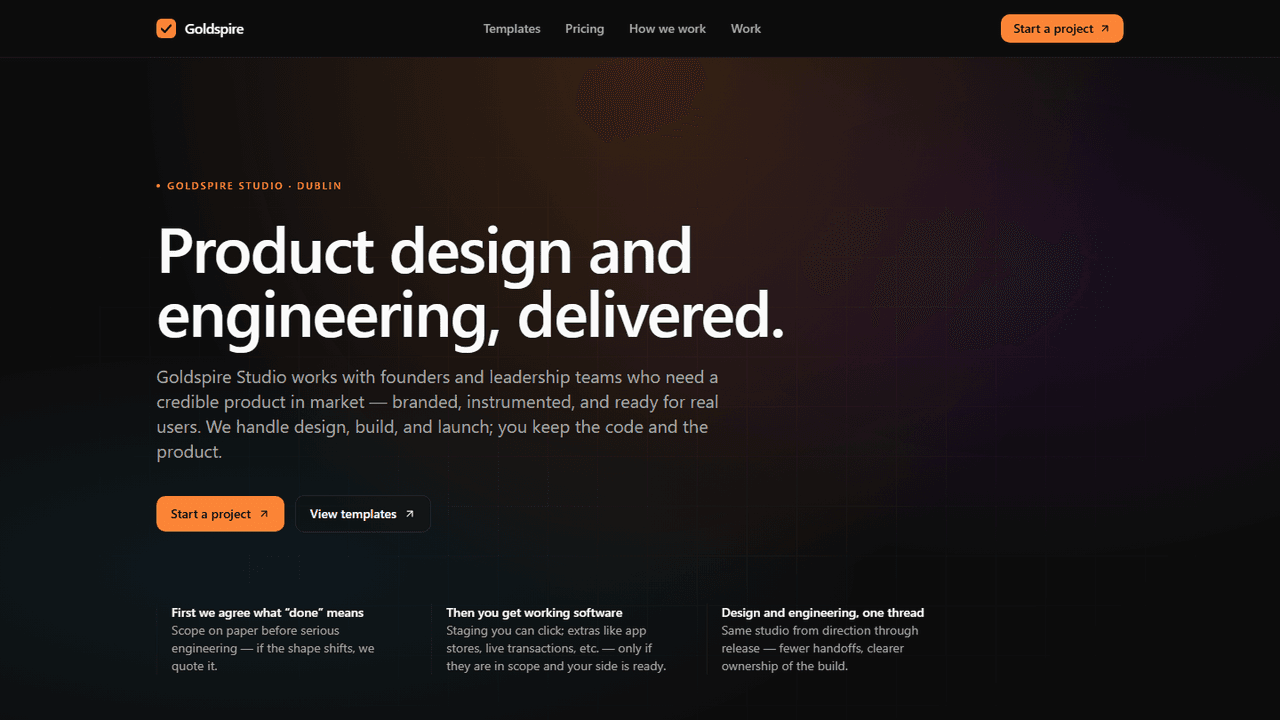
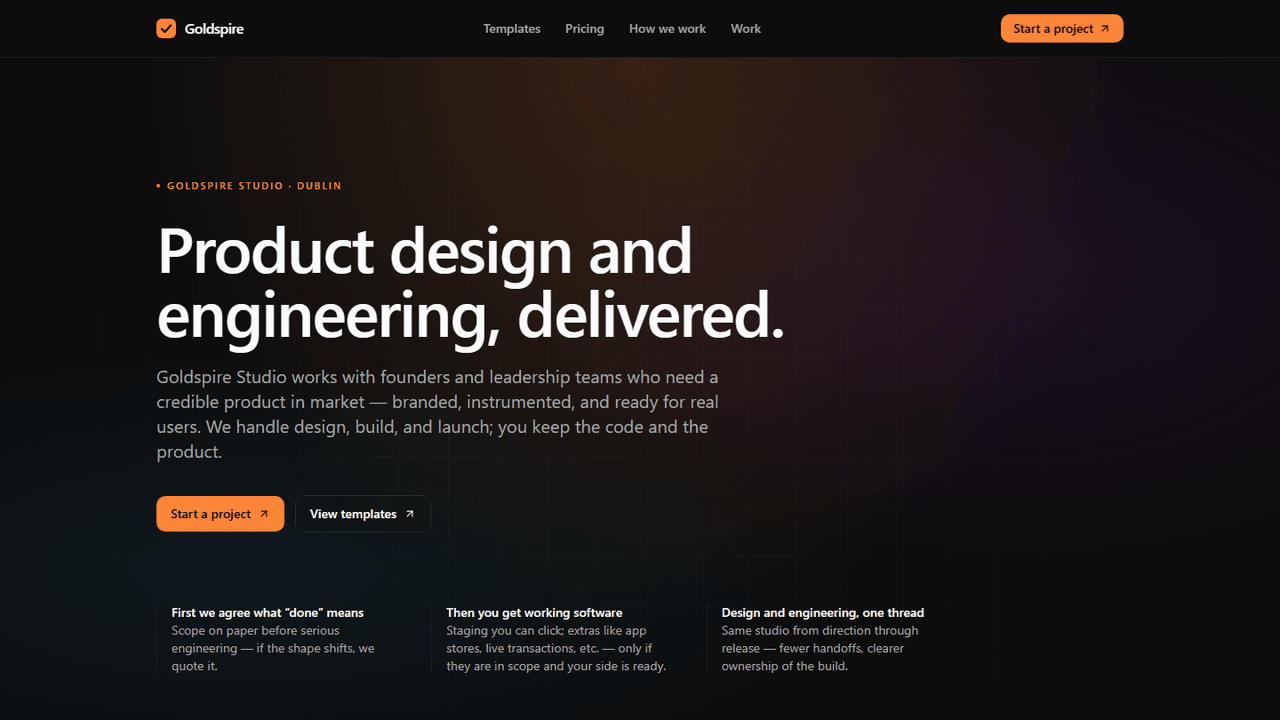
Tighten corporate copy, metrics, portfolio previews, and Studio partner section.
Fix live count to include all three shipping companies, add building venture preview images, refresh philosophy and vision wording, and promote Goldspire Studio on the partner page with links to goldspire.dev.

diff --git a/src/components/home/PartnershipSection.tsx b/src/components/home/PartnershipSection.tsx
@@ -8,41 +8,119 @@ const PARTNER_TYPES = [
   "Strategic alliances",
 ] as const;
 
+const STUDIO_OFFERS = [
+  "Fixed-scope web & mobile products",
+  "Template catalog — dating, booking, and more",
+  "Client-owned repos at handover",
+  "Milestone delivery with a client portal",
+] as const;
+
 export function PartnershipSection() {
   return (
     <section className="section-pad border-t border-white/5">
-      <div className="mx-auto max-w-4xl text-center">
+      <div className="mx-auto max-w-7xl">
         <Reveal>
-          <p className="text-xs tracking-[0.3em] text-gold">PARTNER</p>
-          <h2 className="mt-4 font-display text-2xl font-semibold sm:text-3xl">Build the next company with us</h2>
-          <p className="mt-4 text-muted leading-relaxed">
-            We work with investors, enterprises, and public bodies that think in years, not quarters.
-            If you are exploring co-investment, pilots, or alignment with a company in the portfolio,
-            get in touch.
-          </p>
-        </Reveal>
-
-        <Reveal delay={0.08}>
-          <div className="mt-10 flex flex-wrap justify-center gap-3">
-            {PARTNER_TYPES.map((type) => (
-              <span
-                key={type}
-                className="rounded-full border border-white/10 px-4 py-2 text-sm text-soft"
-              >
-                {type}
-              </span>
-            ))}
+          <div className="glass-panel overflow-hidden rounded-2xl border-gold/20 p-8 sm:p-10 lg:p-12">
+            <div className="grid gap-10 lg:grid-cols-[1fr_1.1fr] lg:items-center">
+              <div className="text-left">
+                <p className="text-xs tracking-[0.3em] text-gold">GOLDSPIRE STUDIO</p>
+                <h2 className="mt-4 font-display text-2xl font-semibold sm:text-3xl">
+                  Ship a credible product — without open-ended agency drift
+                </h2>
+                <p className="mt-4 text-muted leading-relaxed">
+                  Goldspire Studio is our product design and engineering division. Founders and operators
+                  come to us when they need something real in market: a branded app from a proven template,
+                  a scoped blueprint build, or a fixed-price path with clear milestones and code they keep.
+                </p>
+                <ul className="mt-6 space-y-2 text-sm text-soft">
+                  {STUDIO_OFFERS.map((item) => (
+                    <li key={item} className="flex gap-2">
+                      <span className="text-gold">·</span>
+                      <span>{item}</span>
+                    </li>
+                  ))}
+                </ul>
+                <div className="mt-8 flex flex-wrap gap-3">
+                  <a
+                    href="https://goldspire.dev"
+                    target="_blank"
+                    rel="noopener noreferrer"
+                    className="rounded-full bg-gold px-7 py-3.5 text-sm font-medium text-rich-black hover:bg-[#e8c75a] transition-colors"
+                  >
+                    Explore Goldspire Studio
+                  </a>
+                  <a
+                    href="https://goldspire.dev/templates"
+                    target="_blank"
+                    rel="noopener noreferrer"
+                    className="rounded-full border border-white/15 px-7 py-3.5 text-sm text-white hover:border-gold/40 hover:text-gold transition-colors"
+                  >
+                    View templates
+                  </a>
+                </div>
+              </div>
+              <div className="relative overflow-hidden rounded-xl border border-white/8 bg-rich-black/40">
+                <img
+                  src="/images/portfolio/studio-preview.png"
+                  alt="Goldspire Studio marketing site preview"
+                  className="aspect-[16/9] w-full object-cover object-top"
+                  loading="lazy"
+                />
+                <div className="pointer-events-none absolute inset-0 bg-gradient-to-t from-navy/90 via-transparent to-transparent" />
+                <p className="absolute bottom-4 left-4 right-4 text-xs text-muted">
+                  Live at{" "}
+                  <a href="https://goldspire.dev" className="text-gold hover:underline" target="_blank" rel="noopener noreferrer">
+                    goldspire.dev
+                  </a>
+                  {" · "}[email redacted]
+                </p>
+              </div>
+            </div>
           </div>
         </Reveal>
 
-        <Reveal delay={0.12}>
-          <a
-            href="mailto:[email redacted]?subject=Partnership%20inquiry"
-            className="mt-10 inline-flex rounded-full bg-gold px-8 py-4 text-sm font-medium text-rich-black hover:bg-[#e8c75a] transition-colors"
-          >
-            Start a conversation
-          </a>
-        </Reveal>
+        <div className="mx-auto mt-20 max-w-4xl text-center">
+          <Reveal delay={0.06}>
+            <p className="text-xs tracking-[0.3em] text-gold">VENTURE PARTNERSHIP</p>
+            <h2 className="mt-4 font-display text-2xl font-semibold sm:text-3xl">
+              Build the next company with us
+            </h2>
+            <p className="mt-4 text-muted leading-relaxed">
+              We also work with investors, enterprises, and public bodies on co-investment, pilots, and
+              alignment with companies in the portfolio. If you are thinking in years rather than quarters,
+              we should talk.
+            </p>
+          </Reveal>
+
+          <Reveal delay={0.1}>
+            <div className="mt-10 flex flex-wrap justify-center gap-3">
+              {PARTNER_TYPES.map((type) => (
+                <span
+                  key={type}
+                  className="rounded-full border border-white/10 px-4 py-2 text-sm text-soft"
+                >
+                  {type}
+                </span>
+              ))}
+            </div>
+          </Reveal>
+
+          <Reveal delay={0.14}>
+            <a
+              href="mailto:[email redacted]?subject=Partnership%20inquiry"
+              className="mt-10 inline-flex rounded-full border border-gold/40 px-8 py-4 text-sm font-medium text-gold hover:bg-gold/10 transition-colors"
+            >
+              Start a conversation
+            </a>
+            <p className="mt-4 text-xs text-muted">
+              For Studio enquiries, use{" "}
+              <a href="https://goldspire.dev/contact" className="text-gold hover:underline" target="_blank" rel="noopener noreferrer">
+                goldspire.dev/contact
+              </a>
+              .
+            </p>
+          </Reveal>
+        </div>
       </div>
     </section>
   );

diff --git a/src/data/portfolio.ts b/src/data/portfolio.ts
@@ -81,7 +81,7 @@ export const PORTFOLIO_COMPANIES: PortfolioCompany[] = [
     name: "Goldspire Studio",
     tagline: "Product design & engineering",
     description:
-      "The Ventures studio division — fixed-scope design and engineering for founders who need a credible product in market, with clear delivery and code they keep.",
+      "Goldspire's studio division — fixed-scope design and engineering for founders who need a credible product in market, with clear delivery and code they keep.",
     industry: "Services",
     region: "global",
     status: "live",
@@ -113,6 +113,7 @@ export const PORTFOLIO_COMPANIES: PortfolioCompany[] = [
       "Mulah focuses on subscription clarity first — what is running, what changed, and where there is room to adjust — then ties that to wider spending habits.",
     focusAreas: ["Subscription tracking", "Spend visibility", "Savings habits", "Open banking"],
     gradient: "from-emerald-500/15 via-teal-900/25 to-navy",
+    previewImage: "/images/portfolio/mulah-preview.png",
   },
   {
     slug: "simi",
@@ -131,6 +132,7 @@ export const PORTFOLIO_COMPANIES: PortfolioCompany[] = [
       "S.I.M.I. ties together context, permissions, and tools in one layer — so help shows up in the right place with boundaries teams can actually enforce.",
     focusAreas: ["Cross-app context", "Permission model", "Tool integration", "Tenant controls"],
     gradient: "from-violet-500/20 via-purple-900/30 to-navy",
+    previewImage: "/images/portfolio/simi-preview.png",
   },
   {
     slug: "triforge",
@@ -149,6 +151,7 @@ export const PORTFOLIO_COMPANIES: PortfolioCompany[] = [
       "Triforge ships focused products on a shared integration model — connect the mesh, prove what matters, run the plan when things break.",
     focusAreas: ["Service mesh", "Verifiable credentials", "Continuity planning", "Open integration"],
     gradient: "from-indigo-500/15 via-slate-900/30 to-navy",
+    previewImage: "/images/portfolio/triforge-preview.png",
   },
   {
     slug: "valrolly",
@@ -164,9 +167,10 @@ export const PORTFOLIO_COMPANIES: PortfolioCompany[] = [
     problem:
       "Ticketing products handle checkout. Everything else — staff, comms, on-site changes — often lives in spreadsheets and group chats.",
     approach:
-      "Valrolly builds workflows around how events actually run, with room to align over time with other Ventures products where appointment and event models meet.",
+      "Valrolly builds workflows around how events actually run, with room to align over time with other portfolio companies where appointment and event models meet.",
     focusAreas: ["Ticketing", "On-site operations", "Operator dashboards", "Attendee experience"],
     gradient: "from-rose-500/15 via-fuchsia-900/25 to-navy",
+    previewImage: "/images/portfolio/valrolly-preview.png",
   },
   {
     slug: "trustbase",
@@ -185,6 +189,7 @@ export const PORTFOLIO_COMPANIES: PortfolioCompany[] = [
       "TrustBase turns signals into durable profiles and APIs — verification that platforms can plug into without rebuilding trust from scratch each time.",
     focusAreas: ["Reputation signals", "Verification APIs", "Fraud resistance", "Cross-border trust"],
     gradient: "from-amber-500/20 via-orange-900/30 to-navy",
+    previewImage: "/images/portfolio/trustbase-preview.png",
   },
   {
     slug: "move-ezflow",
@@ -203,6 +208,7 @@ export const PORTFOLIO_COMPANIES: PortfolioCompany[] = [
       "MOVE and EZFlow combine live routing data, operator views, and demand shaping so networks can adapt instead of only report.",
     focusAreas: ["Flow optimisation", "Operator dashboards", "Demand shaping", "Routing"],
     gradient: "from-cyan-500/15 via-slate-800/30 to-navy",
+    previewImage: "/images/portfolio/move-ezflow-preview.png",
   },
   {
     slug: "japa",
@@ -221,6 +227,7 @@ export const PORTFOLIO_COMPANIES: PortfolioCompany[] = [
       "Japa maps pathways, verified providers, and community knowledge into a single stack people can follow step by step.",
     focusAreas: ["Relocation pathways", "Provider network", "Compliance support", "Community knowledge"],
     gradient: "from-sky-500/15 via-blue-900/25 to-navy",
+    previewImage: "/images/portfolio/japa-preview.png",
   },
 ];
 
@@ -260,14 +267,35 @@ export function getCompaniesByRegionSorted(region: PortfolioRegion): PortfolioCo
   return sortPortfolioCompanies(getCompaniesByRegion(region));
 }
 
+export function countLiveVentures(): number {
+  return PORTFOLIO_COMPANIES.filter((c) => c.status === "live").length;
+}
+
+/** All companies with a live product or division today. */
 export function countLiveProducts(): number {
-  return PORTFOLIO_COMPANIES.filter((c) => c.status === "live" && c.industry !== "Services").length;
+  return PORTFOLIO_COMPANIES.filter((c) => c.status === "live").length;
 }
 
 export function countBuildingVentures(): number {
   return PORTFOLIO_COMPANIES.filter((c) => c.status === "building").length;
 }
 
+export function countFocusRegions(): number {
+  return PORTFOLIO_REGIONS.length;
+}
+
+export type PortfolioMetric = { label: string; value: number };
+
+/** Vision / metrics strip — every value derived from portfolio data, no literals. */
+export function getPortfolioMetrics(): PortfolioMetric[] {
+  return [
+    { label: "Portfolio companies", value: PORTFOLIO_COMPANIES.length },
+    { label: "Live today", value: countLiveVentures() },
+    { label: "In development", value: countBuildingVentures() },
+    { label: "Focus regions", value: countFocusRegions() },
+  ];
+}
+
 export function getLiveProductCompanies(): PortfolioCompany[] {
-  return PORTFOLIO_COMPANIES.filter((c) => c.status === "live" && c.industry !== "Services");
+  return PORTFOLIO_COMPANIES.filter((c) => c.status === "live");
 }

diff --git a/src/components/home/MetricsSection.tsx b/src/components/home/MetricsSection.tsx
@@ -1,24 +1,15 @@
 import { Reveal } from "@/components/Reveal";
 import { Counter } from "@/components/Counter";
-import {
-  PORTFOLIO_COMPANIES,
-  countBuildingVentures,
-  countLiveProducts,
-} from "@/data/portfolio";
-
-const METRICS = [
-  { label: "Companies in portfolio", value: PORTFOLIO_COMPANIES.length },
-  { label: "Products live", value: countLiveProducts() },
-  { label: "In development", value: countBuildingVentures() },
-  { label: "Focus regions", value: 2 },
-] as const;
+import { getPortfolioMetrics } from "@/data/portfolio";
 
 export function MetricsSection() {
+  const metrics = getPortfolioMetrics();
+
   return (
     <section className="section-pad border-y border-white/5">
       <div className="mx-auto max-w-7xl">
         <div className="mt-4 grid gap-10 sm:grid-cols-2 lg:grid-cols-4">
-          {METRICS.map((m, i) => (
+          {metrics.map((m, i) => (
             <Reveal key={m.label} delay={i * 0.08}>
               <div className="text-center">
                 <p className="text-4xl font-semibold text-gold sm:text-5xl">

diff --git a/src/components/home/Vision2035Section.tsx b/src/components/home/Vision2035Section.tsx
@@ -21,15 +21,6 @@ export function Vision2035Section() {
                   </span>
                   <h3 className="mt-3 text-lg font-semibold">{area.title}</h3>
                   <p className="mt-2 text-sm text-muted">{area.desc}</p>
-                  <div className="mt-4 h-1 w-full overflow-hidden rounded-full bg-white/5">
-                    <motion.div
-                      className="h-full bg-gradient-to-r from-gold/40 to-gold"
-                      initial={{ width: 0 }}
-                      whileInView={{ width: `${55 + i * 7}%` }}
-                      viewport={{ once: true }}
-                      transition={{ duration: 1.2, delay: i * 0.1 }}
-                    />
-                  </div>
                 </motion.div>
               </Reveal>
             ))}

diff --git a/src/components/home/ExploreSection.tsx b/src/components/home/ExploreSection.tsx
@@ -20,7 +20,7 @@ const EXPLORE = [
   {
     href: "/partner",
     title: "Partner",
-    desc: "Investors, enterprises, governments, and strategic alliances.",
+    desc: "Studio delivery, co-investment, pilots, and strategic alliances.",
   },
 ] as const;
 

diff --git a/src/components/home/FounderSection.tsx b/src/components/home/FounderSection.tsx
@@ -35,7 +35,7 @@ export function FounderSection() {
           </Reveal>
           <Reveal delay={0.2}>
             <blockquote className="mt-8 border-l-2 border-gold/50 pl-6 text-soft italic">
-              &ldquo;We would rather build one thing properly than ten things loudly.&rdquo;
+              &ldquo;What is worth doing, is worth doing well.&rdquo;
             </blockquote>
           </Reveal>
         </div>

diff --git a/src/components/home/PhilosophyBlurb.tsx b/src/components/home/PhilosophyBlurb.tsx
@@ -10,7 +10,7 @@ export function PhilosophyBlurb() {
             <p className="text-xs tracking-[0.3em] text-gold">HOW WE BUILD</p>
             <p className="mt-6 font-display text-xl leading-relaxed text-soft sm:text-2xl">
               We look for problems worth building a company around — then validate with real users
-              before we scale. Europe and Africa are home bases, not afterthoughts.
+              before we scale.
             </p>
             <Link
               href="/philosophy"

diff --git a/src/components/home/PortfolioTeaser.tsx b/src/components/home/PortfolioTeaser.tsx
@@ -16,7 +16,7 @@ export function PortfolioTeaser() {
             <div>
               <p className="text-xs tracking-[0.3em] text-gold">PORTFOLIO</p>
               <h2 className="mt-3 font-display text-2xl font-semibold sm:text-3xl">
-                Companies under the Ventures umbrella
+                Companies under Goldspire&apos;s umbrella
               </h2>
               <p className="mt-3 max-w-xl text-sm leading-relaxed text-muted">
                 What is live today. Studio client work is at{" "}

diff --git a/src/components/home/ProofStrip.tsx b/src/components/home/ProofStrip.tsx
@@ -42,7 +42,7 @@ export function ProofStrip() {
         <Reveal>
           <div className="flex flex-col gap-6 lg:flex-row lg:items-center lg:justify-between">
             <p className="text-sm text-muted">
-              <span className="text-gold font-medium">{countLiveProducts()} products live</span>
+              <span className="text-gold font-medium">{countLiveProducts()} live today</span>
               {" · "}Goldspire Ventures Ltd · Dublin & global
             </p>
             <div className="grid gap-3 sm:grid-cols-2 lg:grid-cols-4 lg:gap-6">

diff --git a/src/pages/PartnerPage.tsx b/src/pages/PartnerPage.tsx
@@ -7,7 +7,7 @@ export function PartnerPage() {
       <PageHeader
         label="PARTNERSHIP"
         title="Partner with Goldspire"
-        description="For investors, enterprises, and institutions interested in a company in the portfolio."
+        description="Work with Goldspire Studio on a fixed-scope product, or partner with us on ventures in the portfolio."
       />
       <PartnershipSection />
     </>

diff --git a/src/pages/PhilosophyPage.tsx b/src/pages/PhilosophyPage.tsx
@@ -7,7 +7,7 @@ export function PhilosophyPage() {
     <>
       <PageHeader
         label="PHILOSOPHY"
-        title="We build companies, not slide decks"
+        title="We build companies for the long run"
         description="How Goldspire finds problems worth solving and backs the teams that solve them."
       />
       <PhilosophySection />

diff --git a/src/pages/PortfolioPage.tsx b/src/pages/PortfolioPage.tsx
@@ -6,7 +6,7 @@ export function PortfolioPage() {
     <>
       <PageHeader
         label="PORTFOLIO"
-        title="Companies under the Ventures umbrella"
+        title="Companies under Goldspire's umbrella"
         description="Live products first, then ventures in development across Europe and Africa."
       />
       <PortfolioSection />